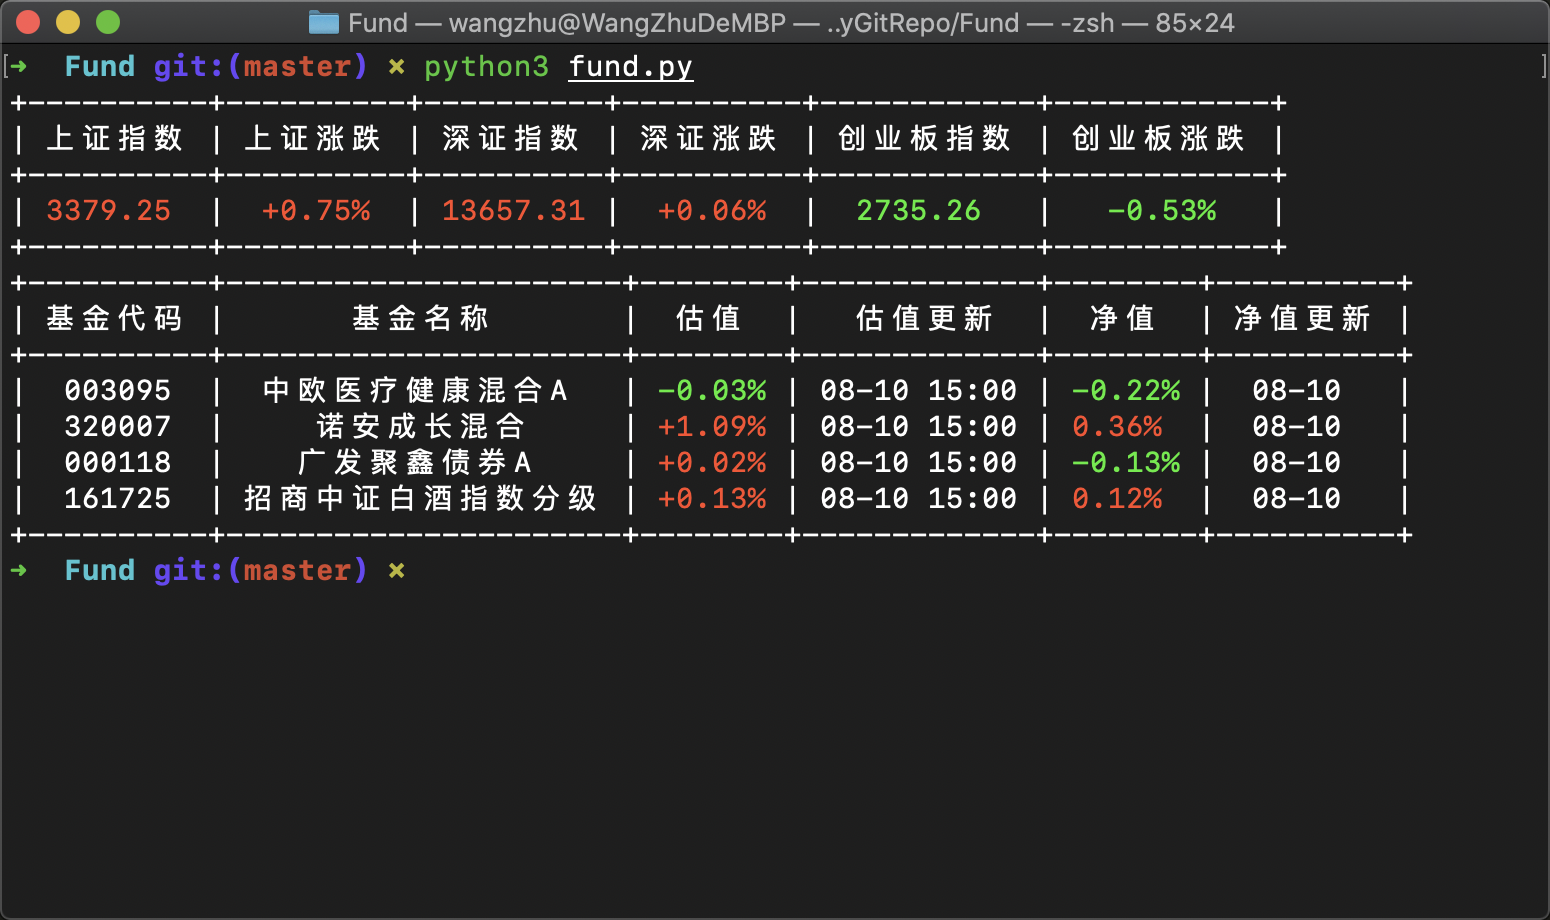
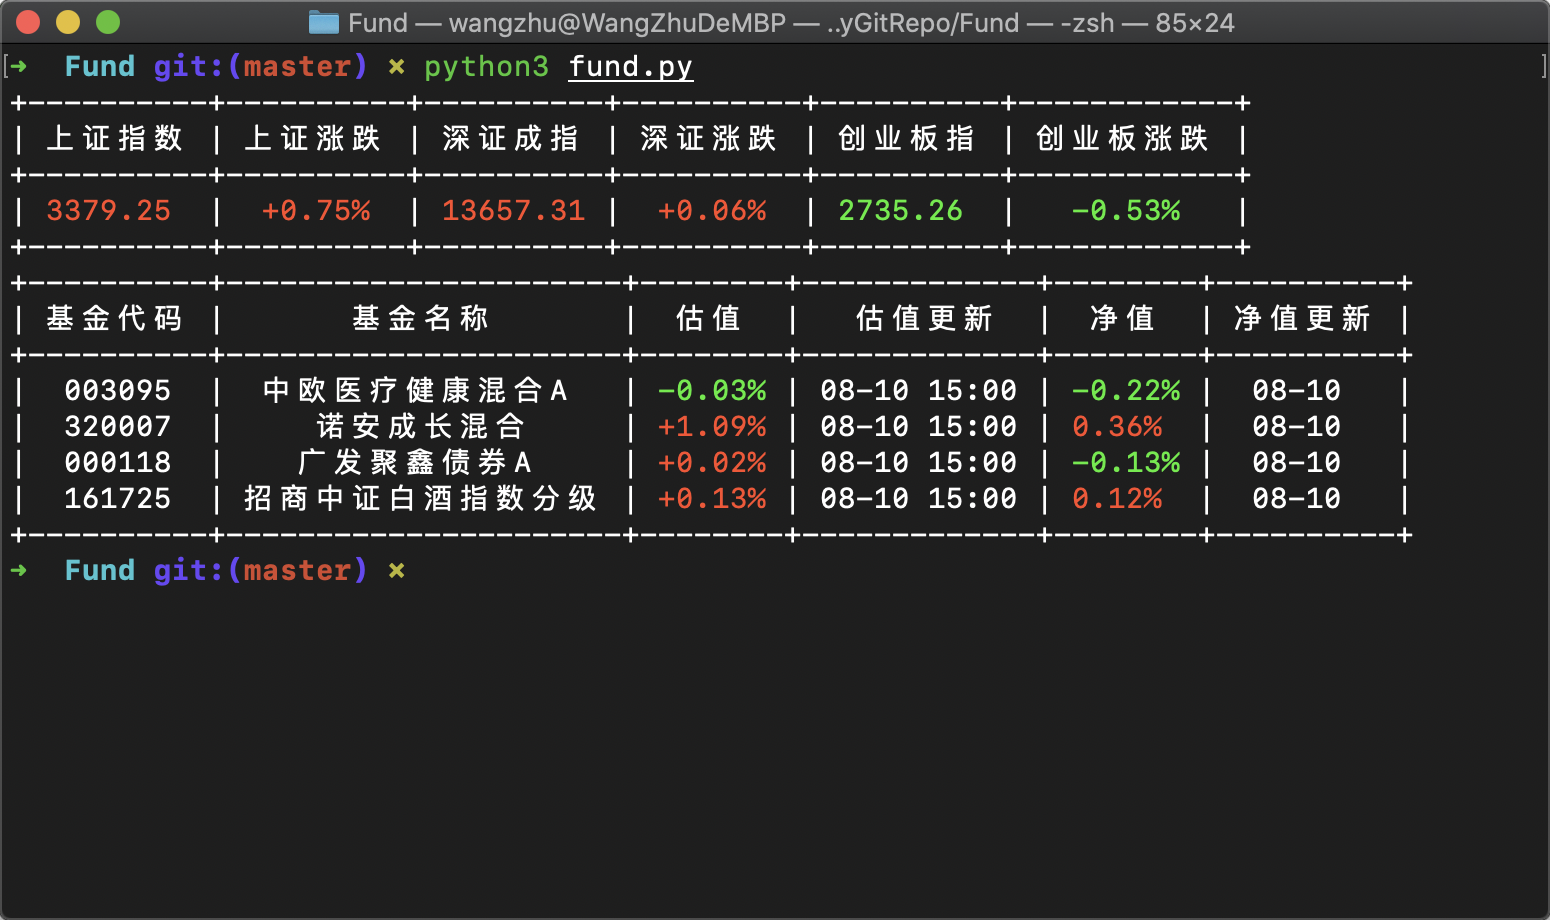
commit

diff --git a/fund.py b/fund.py
@@ -155,7 +155,7 @@ if os.path.exists('./my.txt'):
 
         tb.add_row([i,tmpName,guzhi,gutime,jingzhi,jingtime])
     
-    tb1 = pt.PrettyTable(['上证指数','上证涨跌','深证指数','深证涨跌','创业板指数','创业板涨跌'])
+    tb1 = pt.PrettyTable(['上证指数','上证涨跌','深证成指','深证涨跌','创业板指','创业板涨跌'])
     tb1.add_row([shangz_jg,shangz_zd,shenz_jg,shenz_zd,chuangyb_jg,chuangyb_zd])
     print(tb1)
     print(tb)
